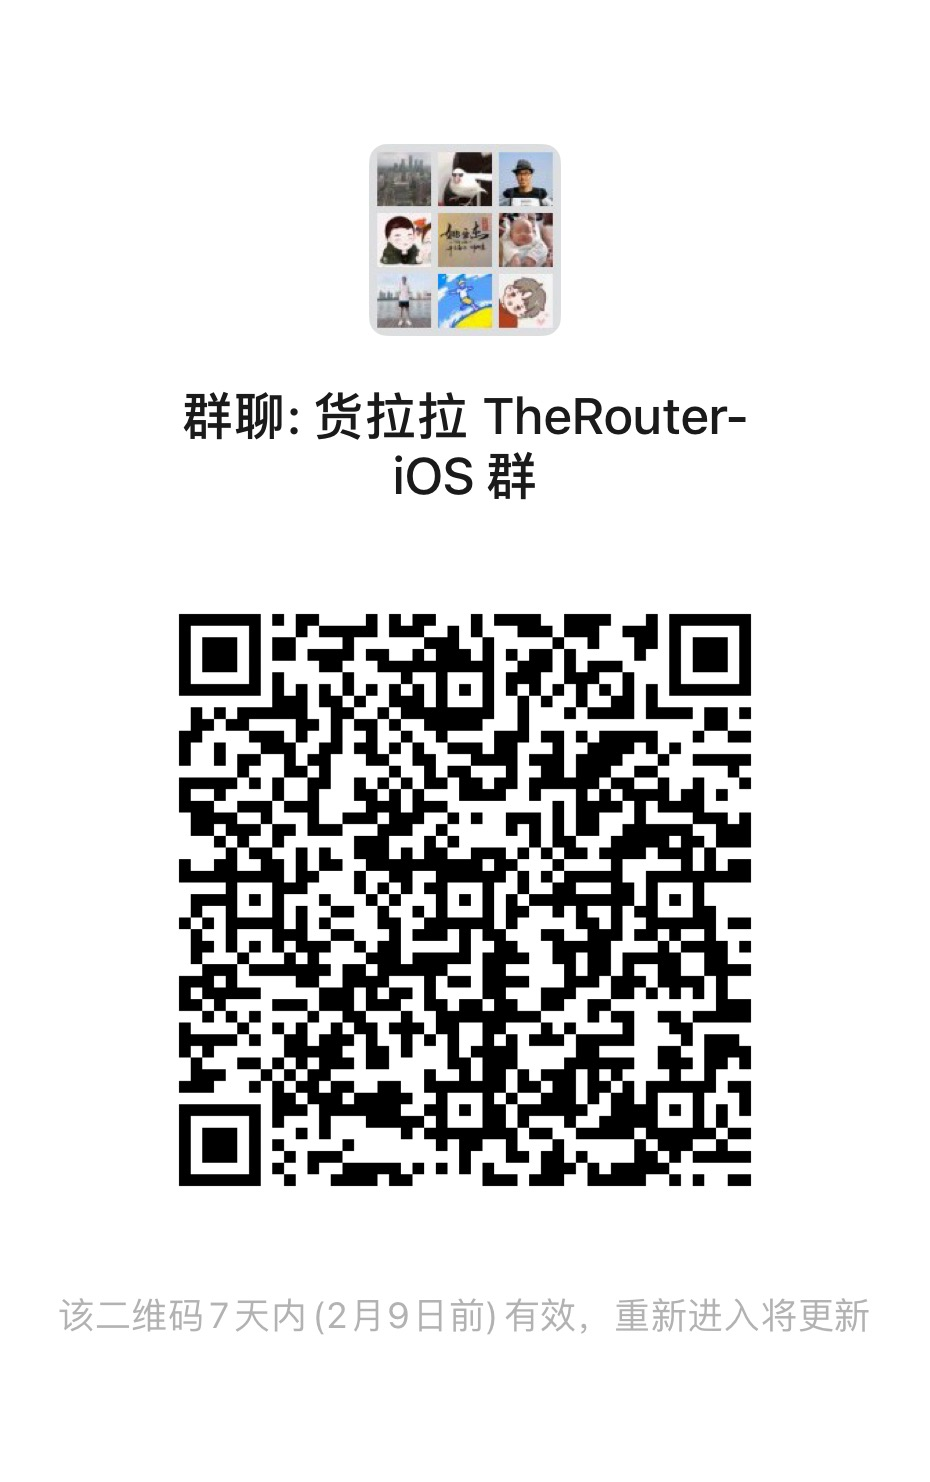
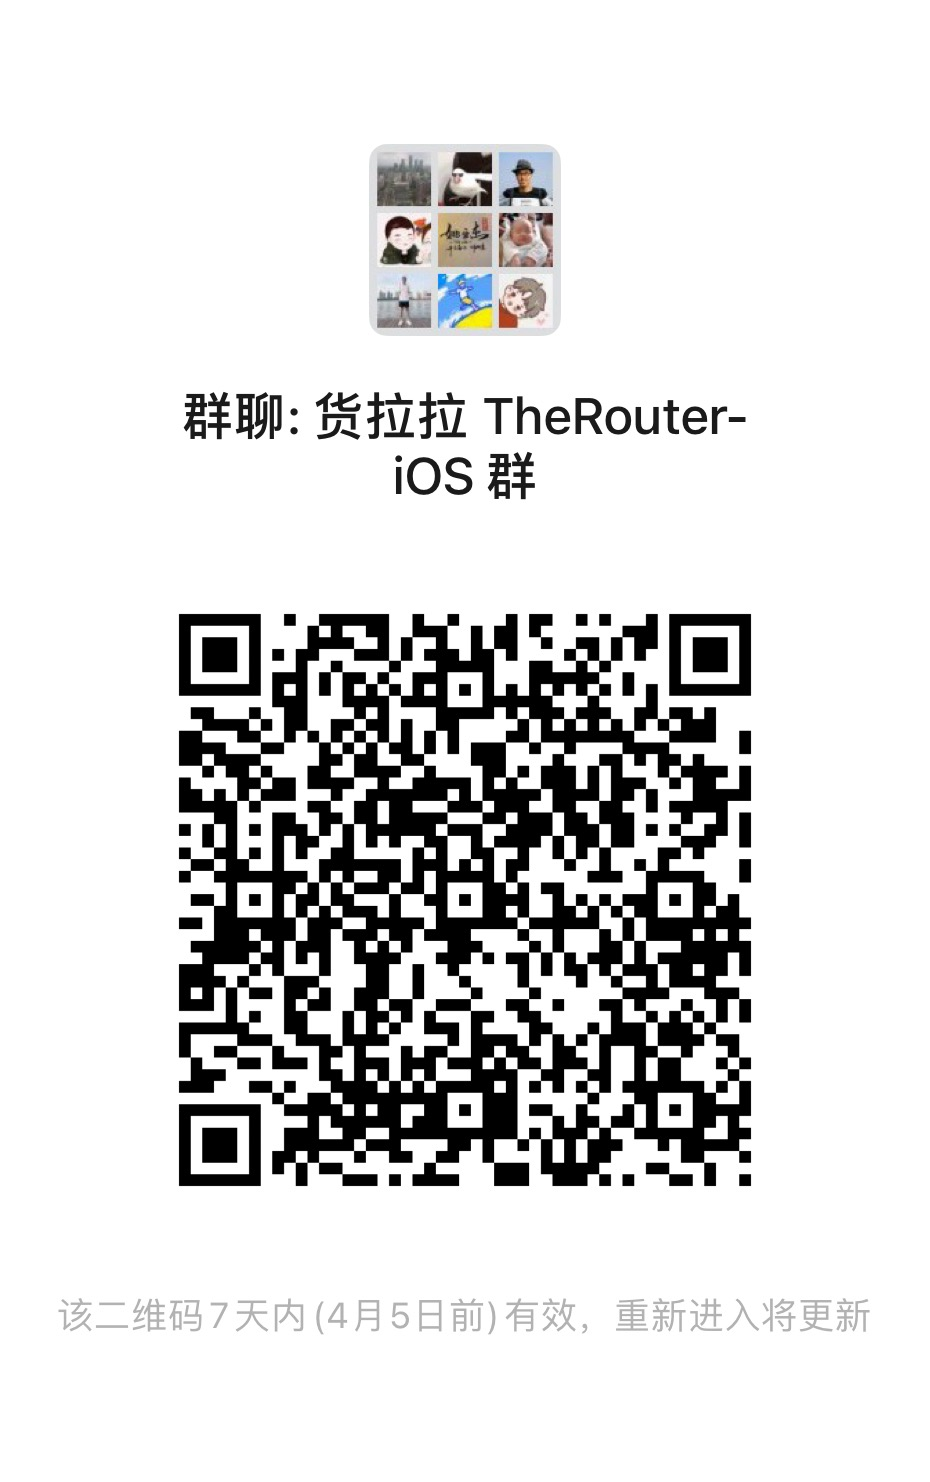
refine: 修改交流群二维码

diff --git a/Example/TheRouter/TheRouterWebController.swift b/Example/TheRouter/TheRouterWebController.swift
@@ -1,0 +1,95 @@
+//
+//  TheRouterWebController.swift
+//  TheRouter_Example
+//
+//  Created by mars.yao on 2023/8/21.
+//  Copyright © 2023 CocoaPods. All rights reserved.
+//
+
+import UIKit
+import WebKit
+import TheRouter
+
+class TheRouterWebController: UIViewController {
+    
+    var webView: WKWebView?
+    
+    var baseUrl: String = ""
+
+    override func viewDidLoad() {
+        super.viewDidLoad()
+        self.navigationItem.title = "WKWebView"
+        self.initWebView()
+        self.loadWebView(baseURL: self.baseUrl)
+    }
+    
+    private func initWebView() {
+        let preferences = WKPreferences()
+        let userContentController = WKUserContentController()
+        
+        let configuration = WKWebViewConfiguration()
+        configuration.preferences = preferences
+        configuration.userContentController = userContentController
+        
+        self.webView = WKWebView(frame: self.view.bounds, configuration: configuration)
+        self.webView?.uiDelegate = self
+        self.webView?.navigationDelegate = self
+        self.view.addSubview(self.webView!)
+    }
+    
+    private func loadWebView(baseURL: String?) {
+        guard let baseURL = baseURL else { return }
+        let url = URL(string: baseURL)!
+        let request = URLRequest(url: url)
+        self.webView?.load(request)
+    }
+    
+
+}
+
+
+extension TheRouterWebController: WKUIDelegate, WKNavigationDelegate {
+    
+    // 页面开始加载时调用
+     func webView(_ webView: WKWebView, didStartProvisionalNavigation navigation: WKNavigation!) {
+     }
+     // 当内容开始返回时调用
+     func webView(_ webView: WKWebView, didCommit navigation: WKNavigation!) {
+     }
+     // 页面加载完成之后调用
+     func webView(_ webView: WKWebView, didFinish navigation: WKNavigation!) {
+     }
+    
+     // 页面加载失败时调用
+     func webView(_ webView: WKWebView, didFailProvisionalNavigation navigation: WKNavigation!, withError error: Error) {
+     }
+    
+     // 接收到服务器跳转请求之后调用
+     func webView(_ webView: WKWebView, didReceiveServerRedirectForProvisionalNavigation navigation: WKNavigation!) {
+     }
+}
+
+
+extension TheRouterWebController: WKScriptMessageHandler {
+    
+    func userContentController(_ userContentController: WKUserContentController, didReceive message: WKScriptMessage) { }
+    
+}
+
+extension TheRouterWebController: TheRouterable {
+    
+    static var patternString: [String] {
+        ["scheme://webview/home"]
+    }
+    
+    static func registerAction(info: [String : Any]) -> Any {
+        let webVC = TheRouterWebController()
+        webVC.baseUrl = info["url"] as? String ?? ""
+        return webVC
+    }
+    
+    static var priority: UInt {
+        TheRouterDefaultPriority
+    }
+    
+}
